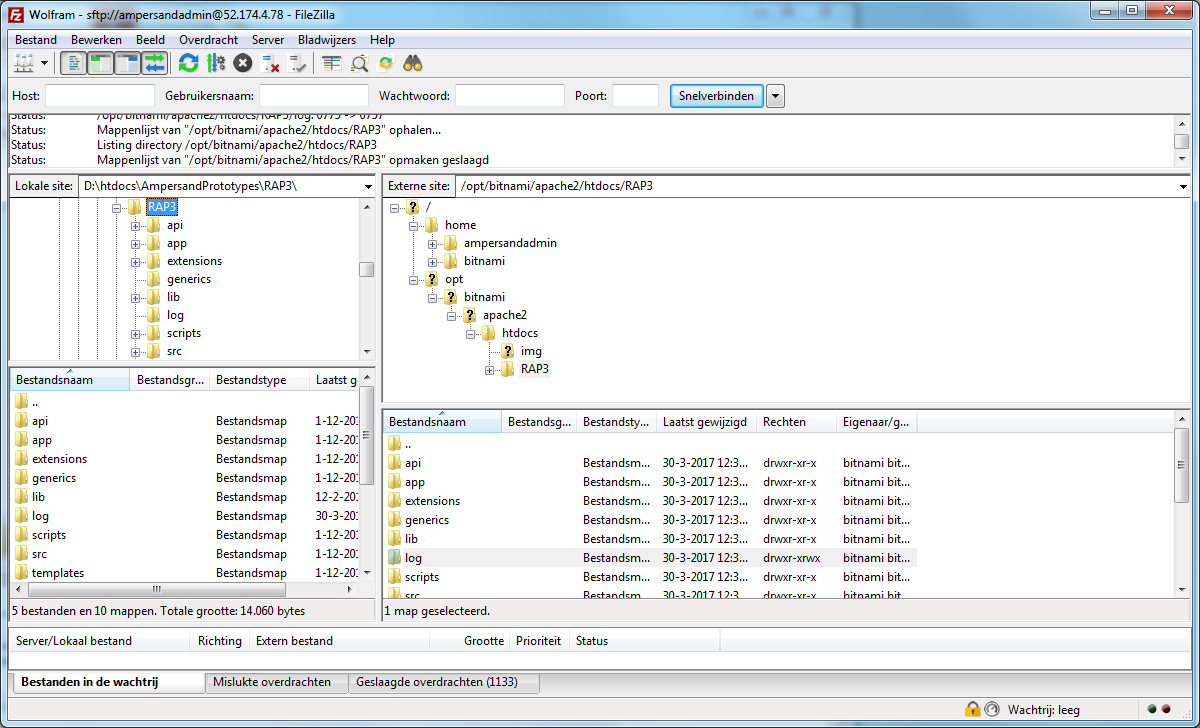
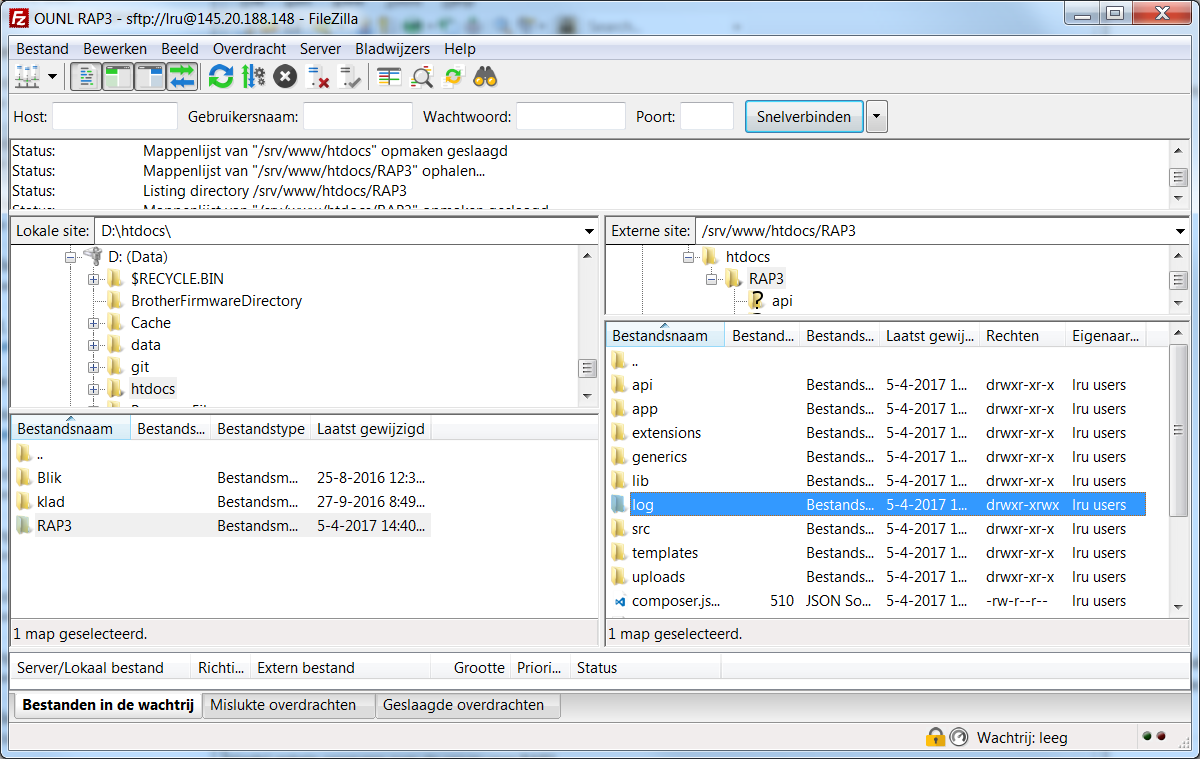
Updates deploying-ounl-rap3.md
Auto commit by GitBook Editor

Changed region(s): [[0.0, 0.0, 1.0, 0.9973]]

diff --git a/deploying-ounl-rap3.md b/deploying-ounl-rap3.md
@@ -83,7 +83,9 @@ After logging into phpMyAdmin, create a user called 'ampersand' with password 'a
 
 To run RAP3, the web-application must be installed on `/srv/www/htdocs`. This step requires sections 1 and 2 to be finished successfully. It also requires you to have a complete RAP3 web-application available for uploading to the server. If you don't have that web-application, you need to build it. Upon completion of step 8 you will have built that web-application by yourself.
 
-To upload RAP3, I followed the instructions on [https://docs.bitnami.com/azure/faq/\#how-to-upload-files-to-the-server-with-sftp](https://docs.bitnami.com/azure/faq/#how-to-upload-files-to-the-server-with-sftp) to upload the RAP3 web-application from my laptop onto the server. I put it on `/srv/www/htdocs`, which is the location of web-applications on this particular configuration. \(On vanilla Linux this would be on /var/www, I guess\). You must change the authorization of the 'log' directory \(.../htdocs/RAP3/log/\) to 757 \(public write access\) or else the application won't work. This screenshot shows the situation after the transfer: \(TODO: update the screenshot\)![](/assets/Filezilla transfer confirmation.png)
+To upload RAP3, I followed the instructions on [https://docs.bitnami.com/azure/faq/\#how-to-upload-files-to-the-server-with-sftp](https://docs.bitnami.com/azure/faq/#how-to-upload-files-to-the-server-with-sftp) to upload the RAP3 web-application from my laptop onto the server. I put it on `/srv/www/htdocs`, which is the location of web-applications on this particular configuration. \(On vanilla Linux this would be on /var/www, I guess\). You must change the authorization of the 'log' directory \(.../htdocs/RAP3/log/\) to 757 \(public write access\) or else the application won't work.
+
+This screenshot shows the situation after the transfer: ![](/assets/import.png)
 
 You can test whether this is successful by browsing to `145.20.188.148/RAP3/`
 
